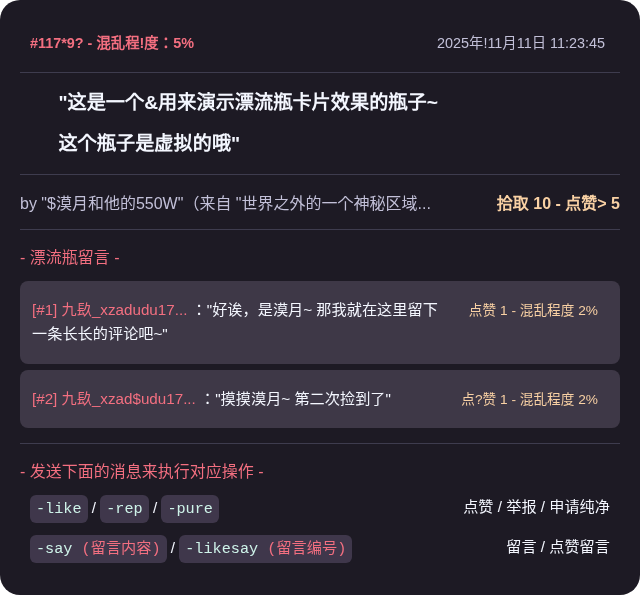
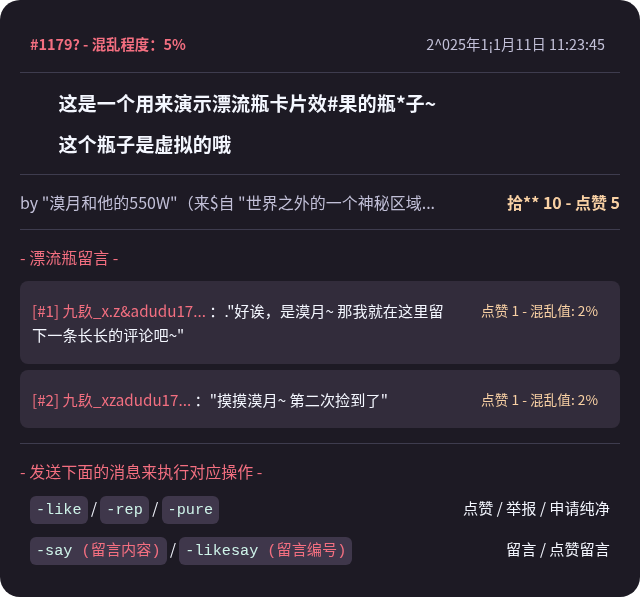
update

diff --git a/xme/plugins/commands/choice.py b/xme/plugins/commands/choice.py
@@ -2,7 +2,7 @@ from nonebot import on_command, CommandSession
 from xme.xmetools.doctools import CommandDoc
 import jieba.posseg as pseg
 import random
-from xme.xmetools.texttools import FormatDict
+from xme.xmetools.texttools import FormatDict, only_positional_fields
 from xme.xmetools.bottools import get_group_member_name, get_stranger_name
 random.seed()
 import re
@@ -73,7 +73,7 @@ async def _(session: CommandSession):
                 "plugins",
                 __plugin_name__,
                 'choice_message',
-                choice=texttools.me_to_you(str(choice)).format_map(formats),
+                choice=only_positional_fields(texttools.me_to_you(str(choice))).format_map(formats),
             ),
             tips=True,
             tips_percent=20,
@@ -82,9 +82,11 @@ async def _(session: CommandSession):
 def has_valid_placeholders(s: str, allowed: list[str]) -> bool:
     # 匹配是否有指定的字符串format
     matches = re.findall(r"{([^{}]+)}", s)
+    # print(matches)
     if not matches:
         return False
-    return all(m in allowed for m in matches)
+    print([m in allowed for m in matches])
+    return len([m for m in matches if m in allowed ]) > 0
 
 async def get_random_group_member(session: CommandSession, group_id):
     if group_id is None:

diff --git a/xme/plugins/commands/furryfusion/__init__.py b/xme/plugins/commands/furryfusion/__init__.py
@@ -1,0 +1,25 @@
+# TODO: 兽聚汇总 API 接入
+# from nonebot import on_command, CommandSession
+# from xme.xmetools.doctools import CommandDoc
+# from xme.xmetools.jsontools import read_from_path
+# from xme.plugins.commands.xme_user.classes.user import User, using_user
+# from xme.xmetools.timetools import curr_days
+# import random
+# random.seed()
+# from xme.xmetools.msgtools import send_session_msg, aget_session_msg
+# from character import get_message
+
+# alias = ['兽聚汇总', '兽聚', 'fur']
+# __plugin_name__ = 'furfusion'
+# __plugin_usage__ = str(CommandDoc(
+#     name=__plugin_name__,
+#     desc=get_message("plugins", __plugin_name__, "desc"),
+#     introduction=get_message("plugins", __plugin_name__, "introduction"),
+#     usage=f'',
+#     permissions=["无"],
+#     alias=alias
+# ))
+# @on_command(__plugin_name__, aliases=alias, only_to_me=False, permission=lambda _: True)
+# @using_user(True)
+# async def _(session: CommandSession, u: User):
+#     ...

diff --git a/xme/plugins/commands/drift_bottle/tools/cards.py b/xme/plugins/commands/drift_bottle/tools/cards.py
@@ -576,7 +576,7 @@ CARD_SKINS = {
             "code-color": "#CEF3E9",
             "code-bg": "#3f374b",
             "date-color": "#c2c0d8",
-            "comments-bg": "#3e3847",
+            "comments-bg": "#322c3b",
             "background-color": "#1d1a24",
             "hr-color": "#3e3c4e",
             "sender-color": "#c2c0d8",
@@ -1559,8 +1559,8 @@ CARD_SKINS = {
             "code-color" : "#ff9e78",
             "code-bg" : "#292b33",
             "date-color" : "#86899c",
-            "comments-bg" : "#212430",
-            "background-color" : "#11121d",
+            "comments-bg" : "#292a35",
+            "background-color" : "#1e1f29",
             "hr-color" : "#4440",
             "border-inner-color": "#7c6d50",
             "sender-color" : "#b8bac9",

diff --git a/xme/plugins/commands/drift_bottle/__init__.py b/xme/plugins/commands/drift_bottle/__init__.py
@@ -3,6 +3,7 @@ from xme.xmetools import texttools
 from xme.xmetools.doctools import PluginDoc
 from xme.xmetools.imgtools import image_to_base64, get_image, phash_compare
 from xme.xmetools.randtools import messy_image
+from xme.xmetools.texttools import only_positional_fields
 from character import get_message
 from keys import BOTTLE_IMAGE_KEY
 from xme.xmetools.dbtools import DATABASE
@@ -30,7 +31,7 @@ class DriftBottle:
 
     def get_formatted_content(self, messy_rate_str, messy_rate):
         try:
-            return self.content.format_map(
+            return only_positional_fields(self.content).format_map(
                 FormatDict(
                     views=self.views,
                     likes=self.likes,

diff --git a/xme/xmetools/texttools.py b/xme/xmetools/texttools.py
@@ -15,6 +15,8 @@ async def get_image_files_from_message(bot, msg):
     images = [(await bot.get_image(file=image))["file"] for image in re.findall(r"\[CQ:image,(?![^\]]*emoji_id=)[^\]]*?file=([^,]+),", msg)]
     return images
 
+def only_positional_fields(s: str) -> str:
+    return re.sub(r"{(\d+)}", r"{{\1}}", s)
 
 class FormatDict(dict):
 
